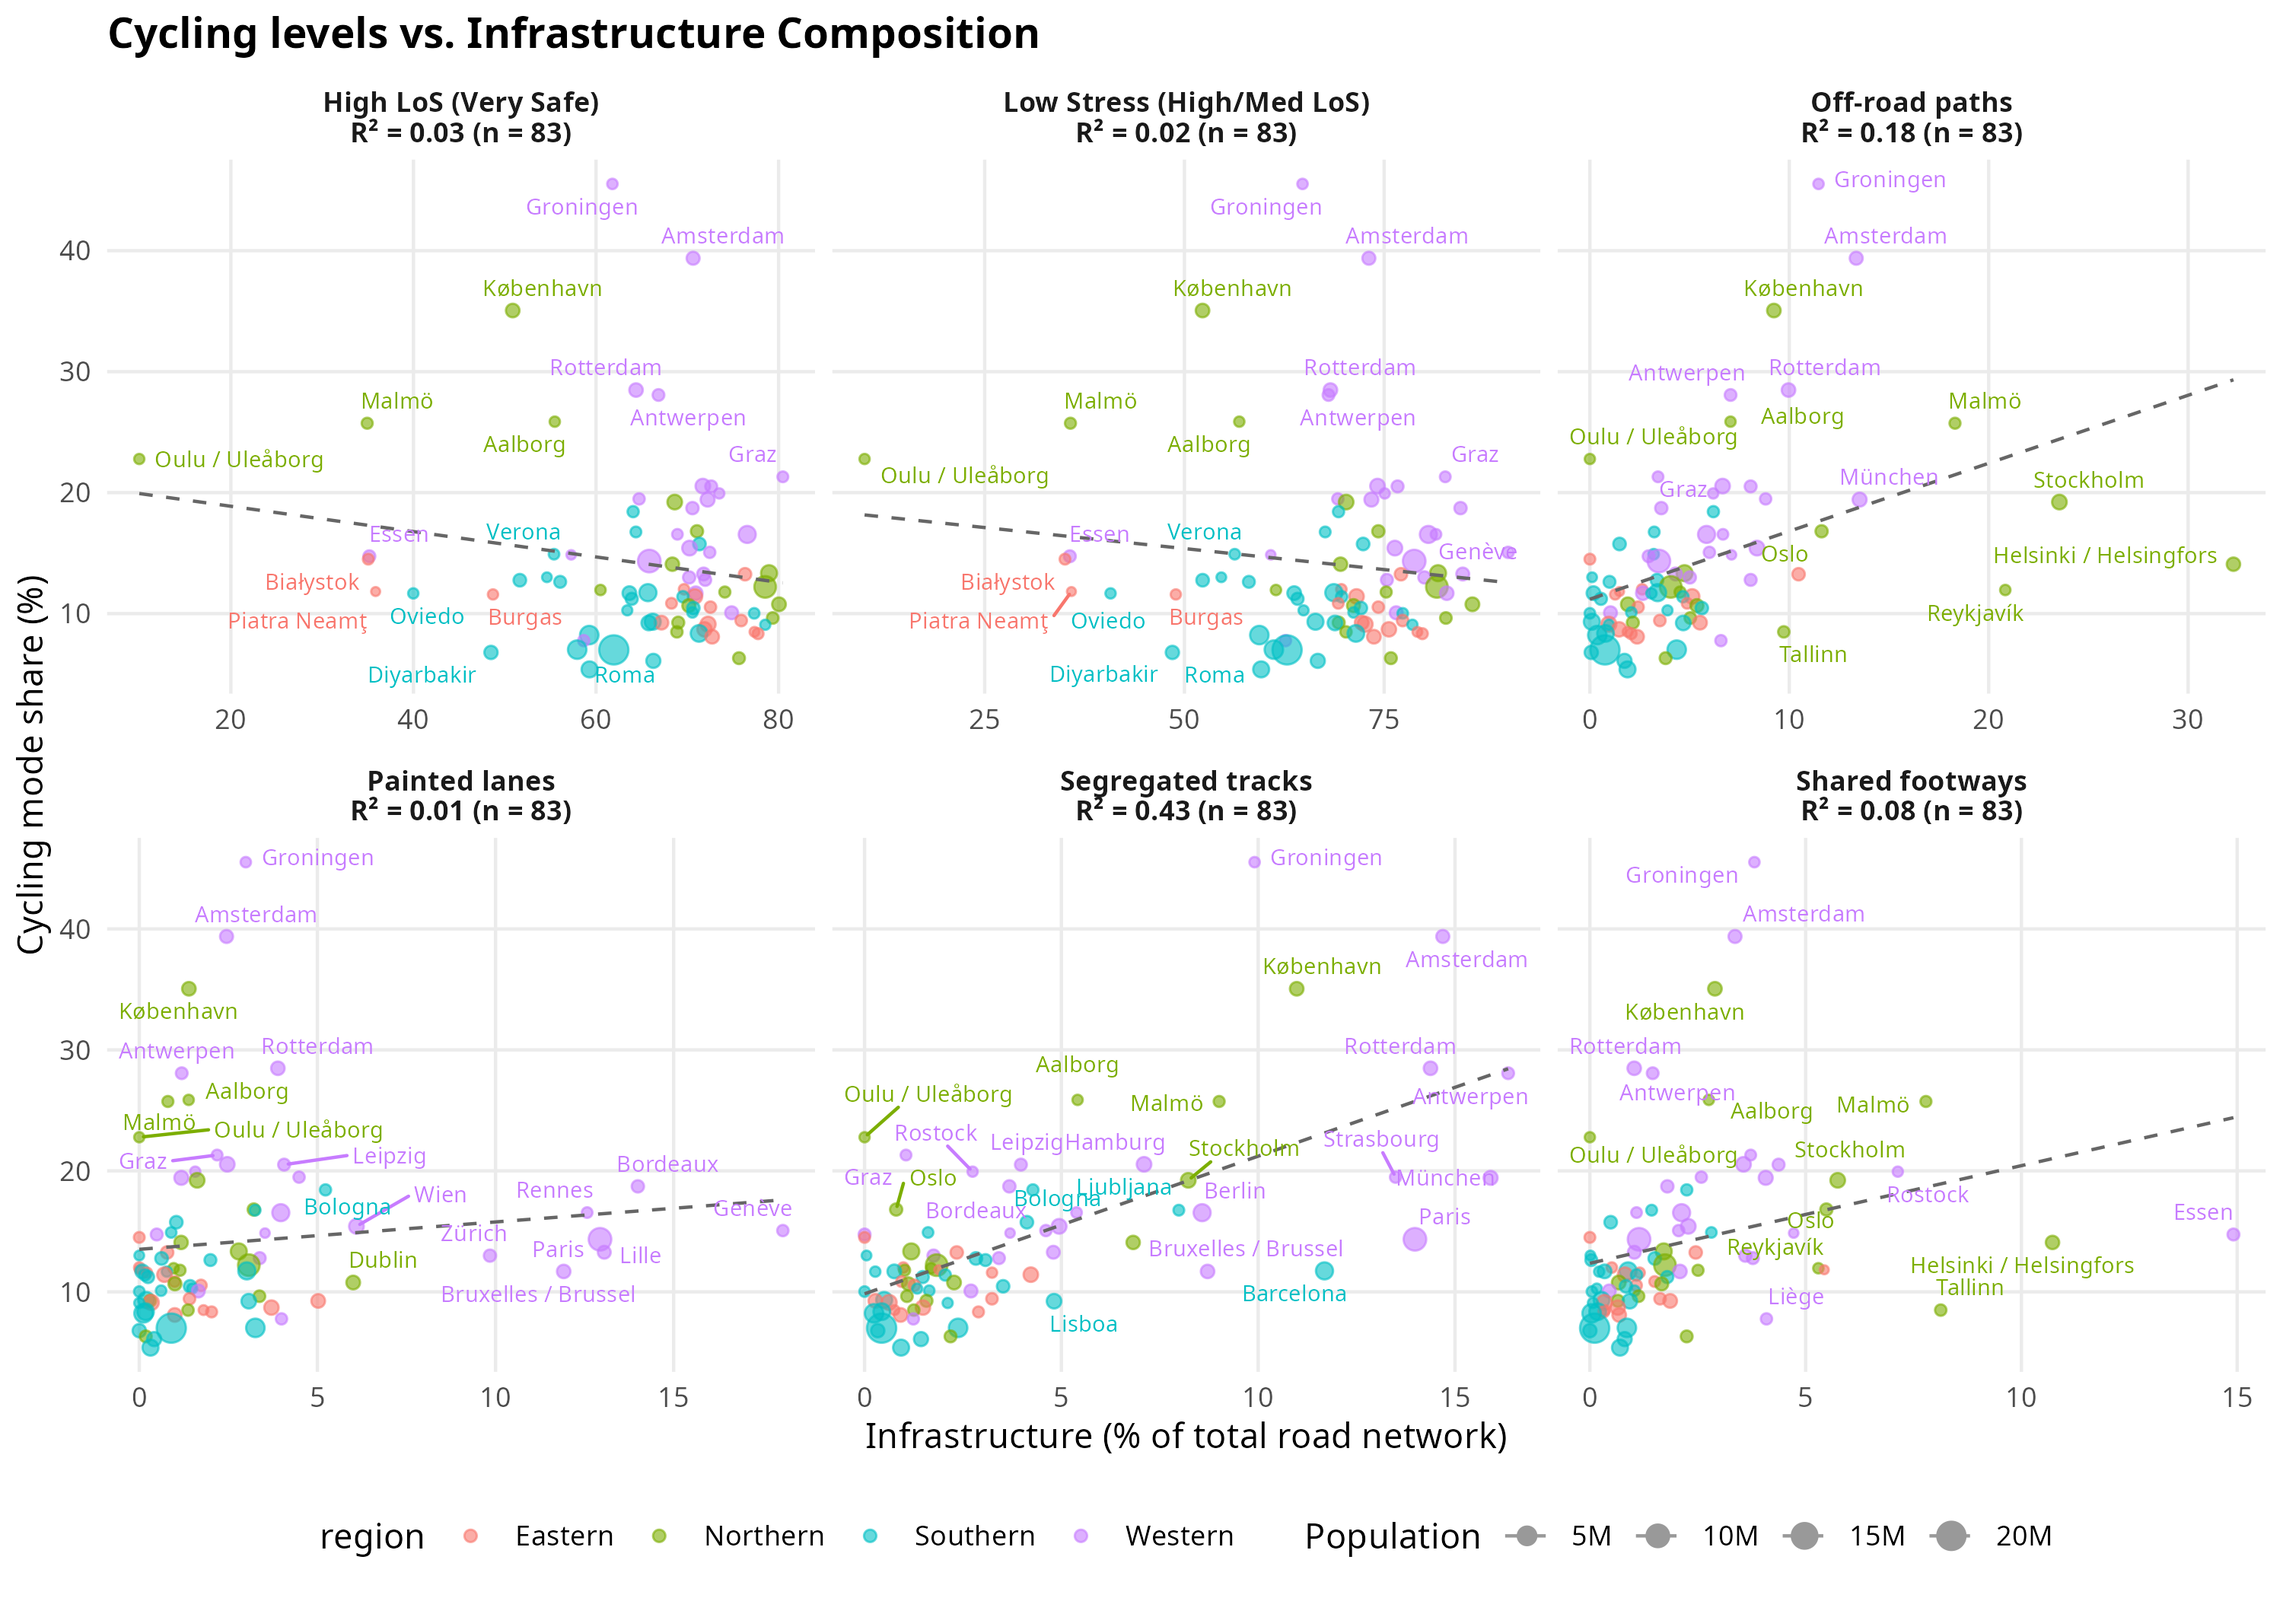
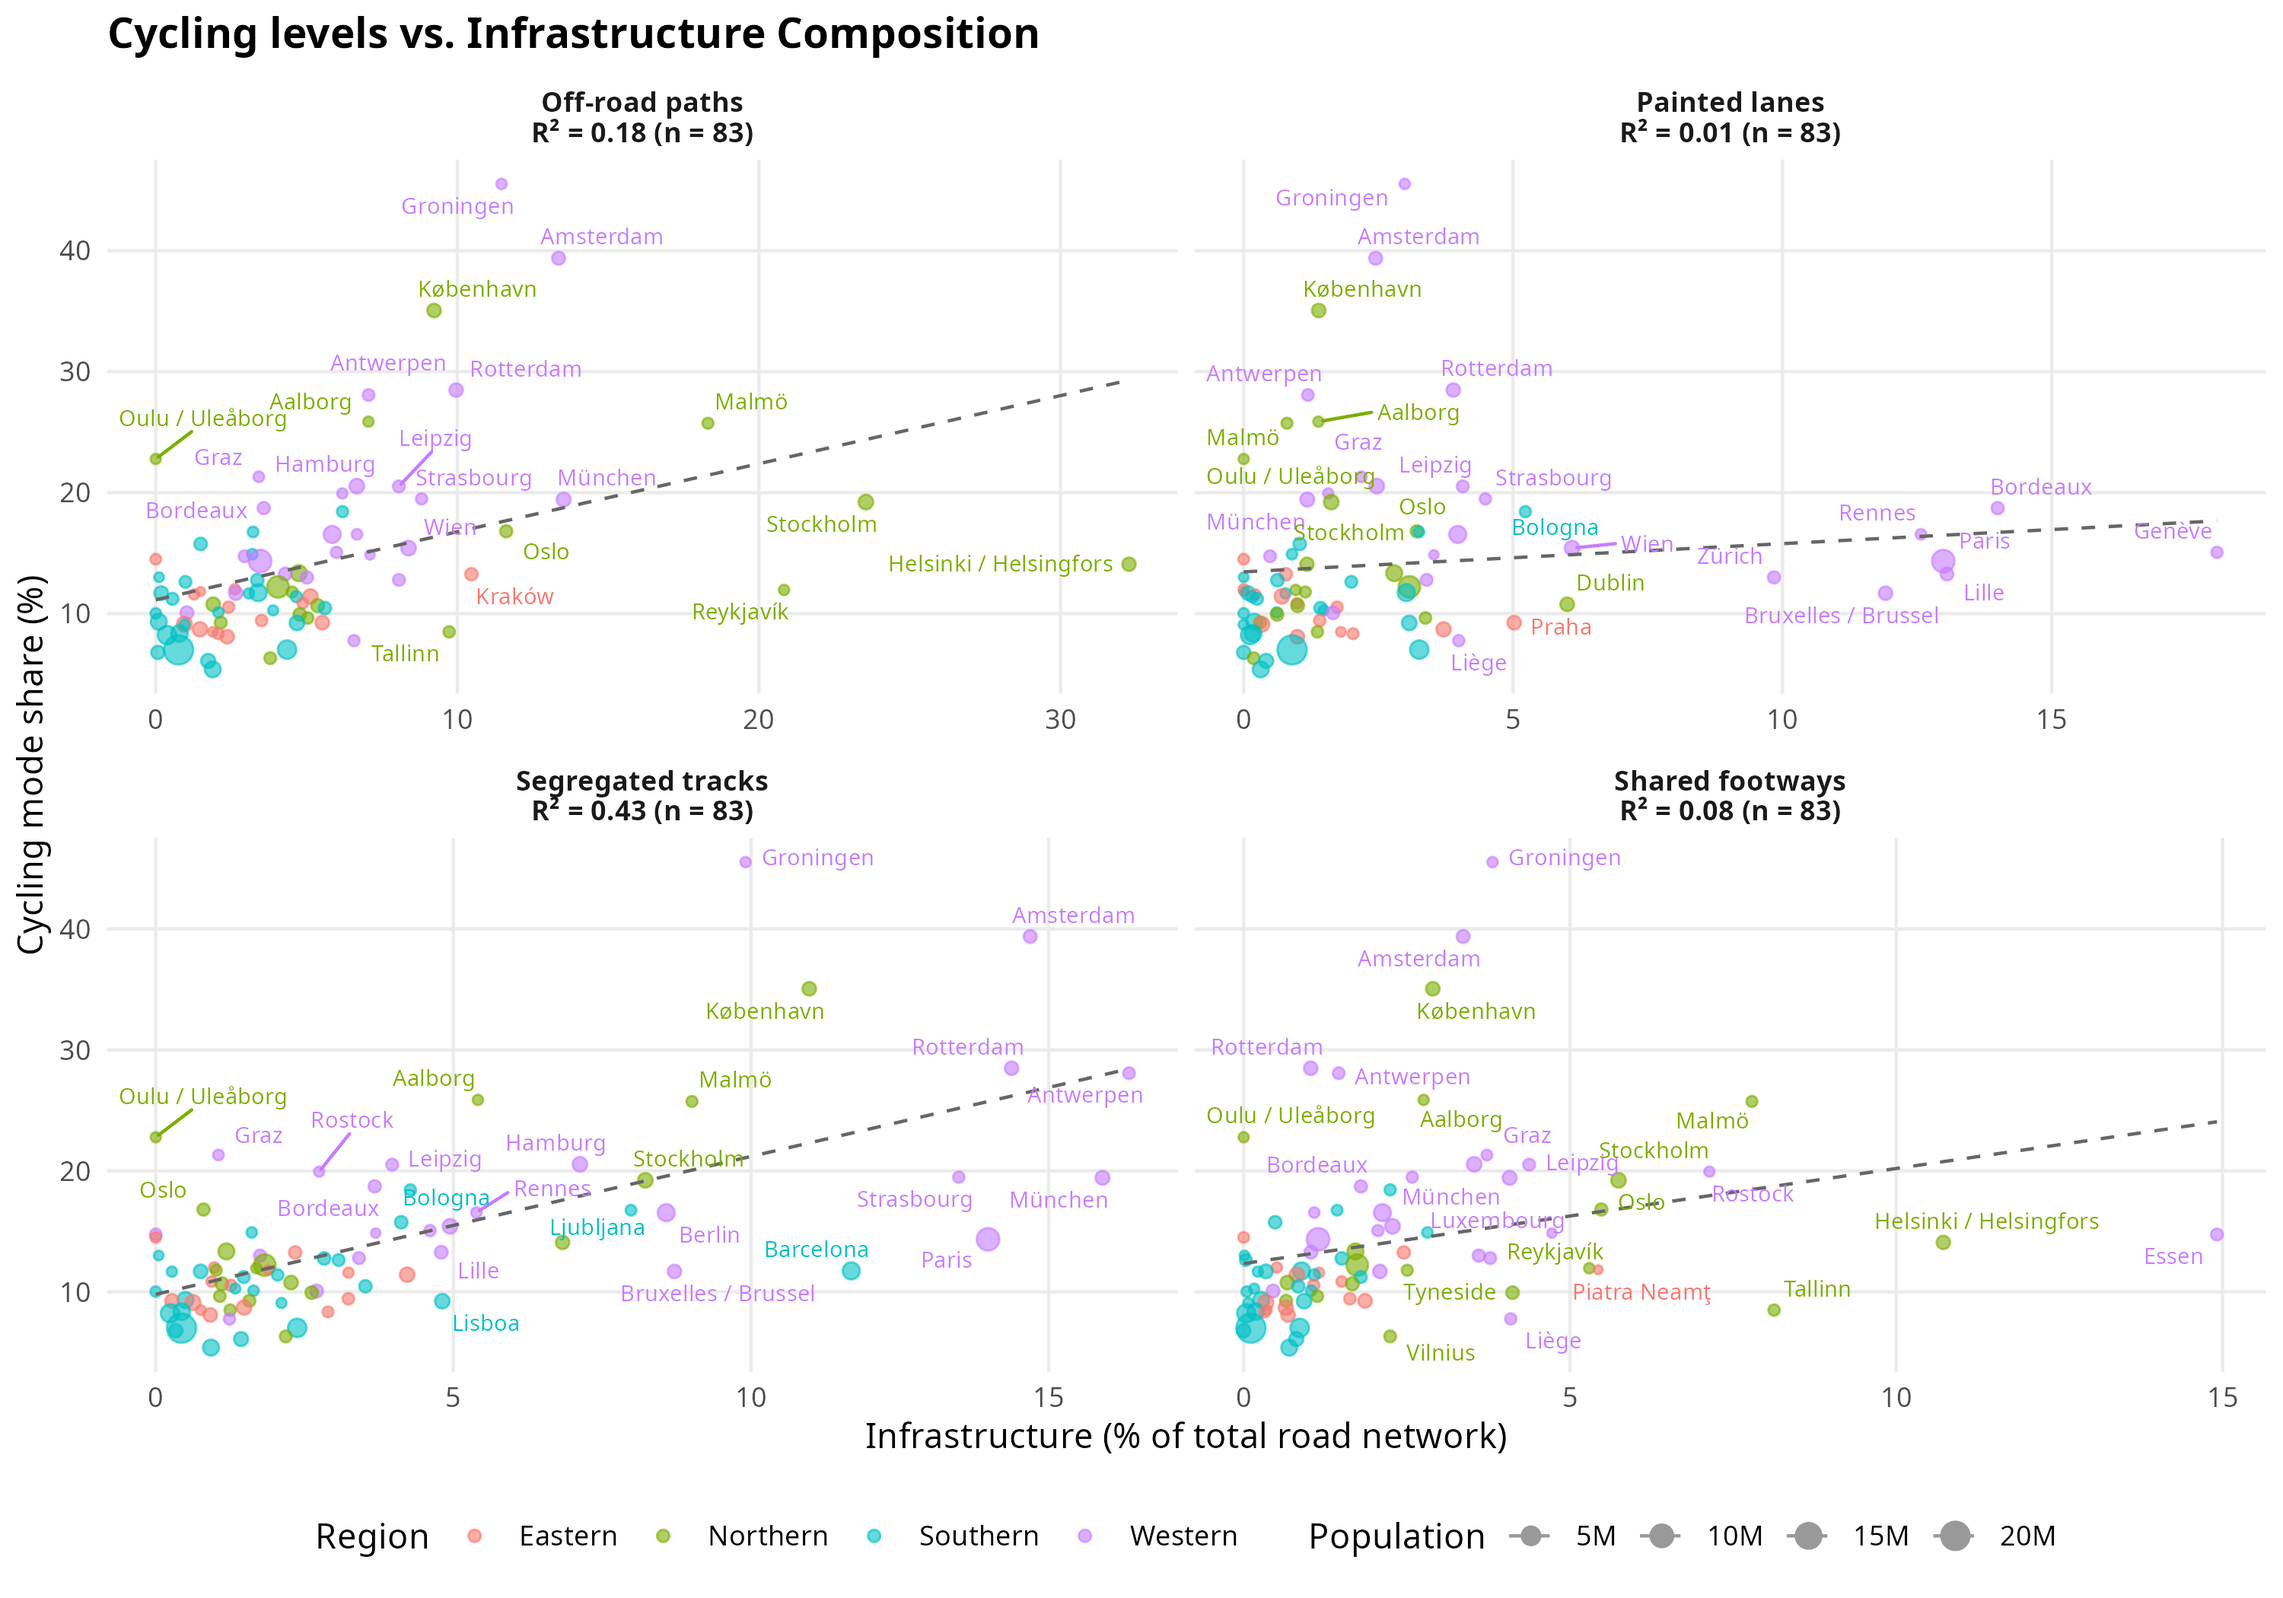
reorganise code and refocus typology

diff --git a/paper.md b/paper.md
@@ -1,13 +1,35 @@
-# Preliminary cycling infra vs usage analysis
+# Physical cycling infrastructure and cycling use
 
 
 ## Introduction
 
-- Aim: examine which cycling-infrastructure metrics align best with
-  cycling use.
+- Cycling is widely promoted in European cities to improve public
+  health, reduce emissions, and enhance urban liveability.
 
-- Start with simple measures (total km, km per 1 000 people) –
-  foundation for later work on network characteristics.
+- Infrastructure provision is commonly assumed to be a key determinant
+  of cycling uptake.
+
+- However, not all types of cycling infrastructure offer the same level
+  of protection, comfort, or perceived safety.
+
+- Much of the existing evidence relies on single-city case studies or
+  intervention-based evaluations.
+
+- Comparative cross-city analyses that distinguish between
+  infrastructure types remain limited.
+
+- Infrastructure is often measured in aggregate terms, without
+  differentiating between facility composition and quality.
+
+- A harmonised, multi-city assessment can help clarify which physical
+  infrastructure metrics are most strongly associated with cycling
+  levels.
+
+- This is particularly relevant for policy, as cities must decide not
+  only how much infrastructure to build, but what kind.
+
+- **Aim**: To examine how physical cycling infrastructure metrics are
+  associated with city-level cycling use across European cities.
 
 ## Data and methods
 
@@ -21,7 +43,7 @@ boundaries, and (iii) cycling infrastructure from OSM.
 Cycling use is measured using the [the EU Quality of Life
 Survey](https://ec.europa.eu/regional_policy/information-sources/maps/quality-of-life_en)
 (83 cities; ≈70,000 respondents), which includes the question: “On a
-typical day, which mode(s) of transport do you use most often?” Cycling
+typical day, which mode(s) of transport do you use most often?”. Cycling
 is one of the selectable modes (up to two choices), providing a
 city-level proxy for cycling prevalence.
 
@@ -46,14 +68,17 @@ Cycling infrastructure data were extracted from OpenStreetMap, using the
 `osmactive` R package. We classified infrastructure into distinct
 categories using the `classify_cycle_infrastructure` function, which
 considers OSM tags (e.g., `highway`, `cycleway`, `segregated`) and
-geometry (e.g., distance to the nearest road) to distinguish between: -
-**Segregated tracks:** Physically separated from motor traffic (further
-split into wide $\ge$ 2m and narrow \< 2m). - **Off-road paths:** Paths
-away from the road network (e.g., through parks). - **Painted lanes:**
-Marked lanes on the carriageway without physical separation. - **Shared
-footways:** Paths shared with pedestrians. - **Mixed traffic:** Cycling
-on the carriageway with motor traffic (not counted as dedicated
-infrastructure).
+geometry (e.g., distance to the nearest road) to distinguish between:
+
+- **Segregated tracks:** Physically separated from motor traffic
+  (further split into wide $\ge$ 2m and narrow \< 2m).
+- **Off-road paths:** Paths away from the road network (e.g., through
+  parks).
+- **Painted lanes:** Marked lanes on the carriageway without physical
+  separation.
+- **Shared footways:** Paths shared with pedestrians.
+
+<!-- -   **Mixed traffic:** Cycling on the carriageway with motor traffic (not counted as dedicated infrastructure). -->
 
 ## Results
 
@@ -100,14 +125,12 @@ and cycling mode share.
 
 <div class="cell-output-display">
 
-| Metric                    | Cities (n) | Correlation (r) | R-squared |
-|:--------------------------|-----------:|----------------:|----------:|
-| Segregated tracks         |         75 |           0.616 |     0.380 |
-| Shared footways           |         75 |           0.309 |     0.095 |
-| Off-road paths            |         75 |           0.128 |     0.016 |
-| Painted lanes             |         75 |           0.080 |     0.006 |
-| Low Stress (High/Med LoS) |         75 |          -0.153 |     0.024 |
-| High LoS (Very Safe)      |         75 |          -0.182 |     0.033 |
+| Metric            | Cities (n) | Correlation (r) | R-squared |
+|:------------------|-----------:|----------------:|----------:|
+| Segregated tracks |         83 |           0.655 |     0.430 |
+| Off-road paths    |         83 |           0.426 |     0.181 |
+| Shared footways   |         83 |           0.278 |     0.077 |
+| Painted lanes     |         83 |           0.118 |     0.014 |
 
 </div>
 
@@ -115,13 +138,7 @@ and cycling mode share.
 
 Segregated tracks show a strong correlation of $R^2 =$ 0.43.
 
-Surprisingly, the **Low Stress (High/Med LoS)** network shows a weak
-negative correlation ($r = -0.13$). This suggests that a high proportion
-of low-traffic residential streets does not automatically lead to high
-cycling levels. In many cases, cities with very high percentages of “low
-stress” streets are lower-density urban areas where these streets lack
-the connectivity or dedicated infrastructure on major corridors needed
-to make cycling a viable transport option across the city.
+<!-- Surprisingly, the **Low Stress (High/Med LoS)** network shows a weak negative correlation ($r = NA$). This suggests that a high proportion of low-traffic residential streets does not automatically lead to high cycling levels. In many cases, cities with very high percentages of "low stress" streets are lower-density urban areas where these streets lack the connectivity or dedicated infrastructure on major corridors needed to make cycling a viable transport option across the city. -->
 
 ## Discussion
 
@@ -132,24 +149,23 @@ demonstrate the strongest positive correlation with cycling mode share
 from motor traffic is the single most important infrastructure feature
 enabling higher cycling levels.
 
-The findings for the **Low Stress** network are particularly telling.
-The lack of a positive correlation suggests that merely “reducing bad
-infrastructure” (i.e., having many quiet streets) is insufficient for
-driving modal shift. Successful cycling cities are characterized not
-just by quiet backstreets, but by high-quality, protected interventions
-on the main road networks where travel demand is highest.
+<!-- The findings for the **Low Stress** network are particularly telling. The lack of a positive correlation suggests that merely "reducing bad infrastructure" (i.e., having many quiet streets) is insufficient for driving modal shift. Successful cycling cities are characterized not just by quiet backstreets, but by high-quality, protected interventions on the main road networks where travel demand is highest. -->
 
 In contrast, **painted lanes** show negligible correlation
 ($R^2 \approx 0.01$), reinforcing the growing consensus that markings
 without protection are insufficient to encourage significant increases
 in cycling.
 
+Other facility types, such as **off-road paths** and **shared
+footways**, display more modest associations with cycling levels. While
+these facilities may contribute to local connectivity or recreational
+cycling, they do not exhibit the same strong relationship with city-wide
+cycling mode share as segregated tracks.
+
 ### Limitations
 
-- **Data Completeness:** Data retrieval was successful for
-  `r`sum(!is.na(qol_city_metrics\[\[“total_road_km”\]\]))\` out of 83
-  cities. Some cities (particularly in France and Spain) are missing due
-  to data provider issues.
+<!-- -   **Data Completeness:** Data retrieval was successful for 83 out of 83 cities.  -->
+
 - **OSM Quality:** The analysis relies on OpenStreetMap data
   completeness and tagging consistency, which varies by region.
 - **Causality:** This cross-sectional analysis establishes correlation,
@@ -158,26 +174,33 @@ in cycling.
 
 ## Conclusion
 
-This preliminary analysis suggests that cities aiming to increase
-cycling mode share should prioritize the development of **segregated
-cycling infrastructure**. While paint and shared paths provide
-connectivity, they do not show the same strong relationship with high
-cycling usage observed for physically separated tracks. Future work
-should focus on network connectivity metrics and control for other
-factors like topography and climate.
+Our findings suggest that cities aiming to increase cycling mode share
+should prioritize the development of **segregated cycling
+infrastructure**. While paint and shared paths provide connectivity,
+they do not show the same strong relationship with high cycling usage
+observed for physically separated tracks.
 
-### Standardized vs. Administrative Boundaries
+Future research should extend this infrastructure-based approach by
+incorporating network connectivity metrics (e.g., directness, mesh
+density, network continuity) to assess not only the quantity but also
+the structural coherence of cycling infrastructure.
 
-Preliminary testing with standardized Urban Centre boundaries (derived
-from the `giscoR` implementation of DEGURBA/flexurba definitions) for 58
-cities shows a correlation ($R^2$) for segregated infrastructure of
-0.41. This suggests that the signal is robust across different boundary
-definitions, though standardized boundaries often yield lower total road
-lengths by excluding low-density suburban peripheries.
+A complementary extension would integrate traffic-stress measures (e.g.,
+Level of Service classifications) to jointly examine infrastructure
+provision and cycling conditions.
 
-## Next steps
+Finally, multivariate models including urban density, land-use mix,
+topography, and climate would help disentangle infrastructure effects
+from broader structural determinants of cycling.
 
-- Investigate missing data for France and Spain.
-- Expand metrics to include network connectivity (e.g., mesh density,
-  directness).
-- Fit multivariate regression models including controls.
+<!-- ### Standardized vs. Administrative Boundaries -->
+
+<!-- Preliminary testing with standardized Urban Centre boundaries (derived from the `giscoR` implementation of DEGURBA/flexurba definitions) for  cities shows a correlation ($R^2$) for segregated infrastructure of NA. This suggests that the signal is robust across different boundary definitions, though standardized boundaries often yield lower total road lengths by excluding low-density suburban peripheries. -->
+
+<!-- ## Next steps -->
+
+<!-- -   Investigate missing data for France and Spain. -->
+
+<!-- -   Expand metrics to include network connectivity (e.g., mesh density, directness). -->
+
+<!-- -   Fit multivariate regression models including controls. -->
